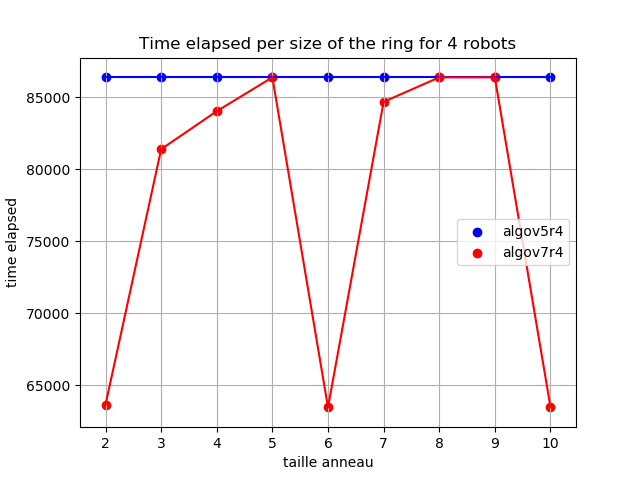
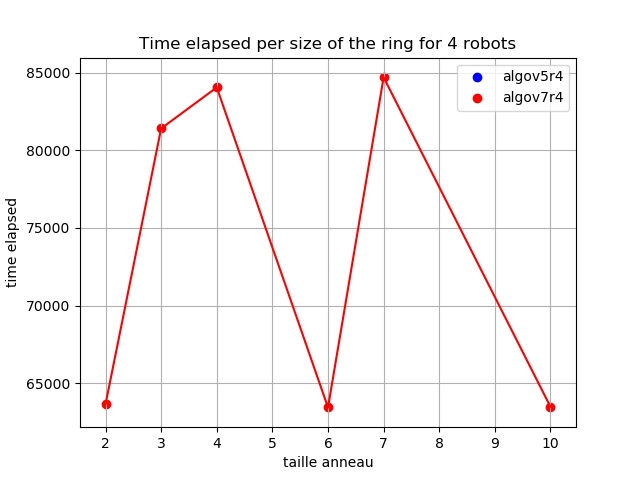
new data

diff --git a/data/data.py b/data/data.py
@@ -4,7 +4,7 @@ from mpl_toolkits.mplot3d import axes3d
 import numpy as np
 import pandas as pd
 
-data = pd.read_csv('./data/data-phiSimple24/data-timev2.csv', sep=';')
+data = pd.read_csv('./data/data-phiR24/data-timev2.csv', sep=';')
 
 algov5 = data.loc[(data['algo'] == 5) & ((data['error'] == 0) | (data['error'] == 3) | (data['error'] == 2))]
 algov7 = data.loc[(data['algo'] == 7) & ((data['error'] == 0) | (data['error'] == 3) | (data['error'] == 2))]
@@ -30,46 +30,46 @@ ax.scatter(algov7r2.sort_values(by = 'taille anneau')['taille anneau'], algov7r2
 ax.set(xlabel='taille anneau', ylabel='time elapsed', title='Time elapsed per size of the ring for 2 robots')
 ax.grid()
 ax.legend()
-fig.savefig("./data/data-phiSimple24/compar_phiSimple24_2.png")
+fig.savefig("./data/data-phiR24/compar_phiR24_2.png")
 plt.show()
-# ################# 3
-# fig, ax = plt.subplots()
-# ax.plot(algov5r3.sort_values(by = 'taille anneau')['taille anneau'], algov5r3.sort_values(by = 'taille anneau')['time elapsed'], color='blue')
-# ax.scatter(algov5r3.sort_values(by = 'taille anneau')['taille anneau'], algov5r3.sort_values(by = 'taille anneau')['time elapsed'], color='blue', label='algov5r3')
-# ax.plot(algov7r3.sort_values(by = 'taille anneau')['taille anneau'], algov7r3.sort_values(by = 'taille anneau')['time elapsed'], color='red')
-# ax.scatter(algov7r3.sort_values(by = 'taille anneau')['taille anneau'], algov7r3.sort_values(by = 'taille anneau')['time elapsed'], color='red', label='algov7r3')
+################# 3
+fig, ax = plt.subplots()
+ax.plot(algov5r3.sort_values(by = 'taille anneau')['taille anneau'], algov5r3.sort_values(by = 'taille anneau')['time elapsed'], color='blue')
+ax.scatter(algov5r3.sort_values(by = 'taille anneau')['taille anneau'], algov5r3.sort_values(by = 'taille anneau')['time elapsed'], color='blue', label='algov5r3')
+ax.plot(algov7r3.sort_values(by = 'taille anneau')['taille anneau'], algov7r3.sort_values(by = 'taille anneau')['time elapsed'], color='red')
+ax.scatter(algov7r3.sort_values(by = 'taille anneau')['taille anneau'], algov7r3.sort_values(by = 'taille anneau')['time elapsed'], color='red', label='algov7r3')
 
-# ax.set(xlabel='taille anneau', ylabel='time elapsed', title='Time elapsed per size of the ring for 3 robots')
-# ax.grid()
-# ax.legend()
-# fig.savefig("./data/data-phiSimple24/compar_phiSimple24_3.png")
-# plt.show()
-# ################# 4
-# fig, ax = plt.subplots()
-# ax.plot(algov5r4.sort_values(by = 'taille anneau')['taille anneau'], algov5r4.sort_values(by = 'taille anneau')['time elapsed'], color='blue')
-# ax.scatter(algov5r4.sort_values(by = 'taille anneau')['taille anneau'], algov5r4.sort_values(by = 'taille anneau')['time elapsed'], color='blue', label='algov5r4')
-# ax.plot(algov7r4.sort_values(by = 'taille anneau')['taille anneau'], algov7r4.sort_values(by = 'taille anneau')['time elapsed'], color='red')
-# ax.scatter(algov7r4.sort_values(by = 'taille anneau')['taille anneau'], algov7r4.sort_values(by = 'taille anneau')['time elapsed'], color='red', label='algov7r4')
+ax.set(xlabel='taille anneau', ylabel='time elapsed', title='Time elapsed per size of the ring for 3 robots')
+ax.grid()
+ax.legend()
+fig.savefig("./data/data-phiR24/compar_phiR24_3.png")
+plt.show()
+################# 4
+fig, ax = plt.subplots()
+ax.plot(algov5r4.sort_values(by = 'taille anneau')['taille anneau'], algov5r4.sort_values(by = 'taille anneau')['time elapsed'], color='blue')
+ax.scatter(algov5r4.sort_values(by = 'taille anneau')['taille anneau'], algov5r4.sort_values(by = 'taille anneau')['time elapsed'], color='blue', label='algov5r4')
+ax.plot(algov7r4.sort_values(by = 'taille anneau')['taille anneau'], algov7r4.sort_values(by = 'taille anneau')['time elapsed'], color='red')
+ax.scatter(algov7r4.sort_values(by = 'taille anneau')['taille anneau'], algov7r4.sort_values(by = 'taille anneau')['time elapsed'], color='red', label='algov7r4')
 
-# ax.set(xlabel='taille anneau', ylabel='time elapsed', title='Time elapsed per size of the ring for 4 robots')
-# ax.grid()
-# ax.legend()
-# fig.savefig("./data/data-phiSimple24/compar_phiSimple24_4.png")
-# plt.show()
-# ################# 5
-# fig, ax = plt.subplots()
-# ax.plot(algov5r5.sort_values(by = 'taille anneau')['taille anneau'], algov5r5.sort_values(by = 'taille anneau')['time elapsed'], color='blue')
-# ax.scatter(algov5r5.sort_values(by = 'taille anneau')['taille anneau'], algov5r5.sort_values(by = 'taille anneau')['time elapsed'], color='blue', label='algov5r5')
-# ax.plot(algov7r5.sort_values(by = 'taille anneau')['taille anneau'], algov7r5.sort_values(by = 'taille anneau')['time elapsed'], color='red')
-# ax.scatter(algov7r5.sort_values(by = 'taille anneau')['taille anneau'], algov7r5.sort_values(by = 'taille anneau')['time elapsed'], color='red', label='algov7r5')
+ax.set(xlabel='taille anneau', ylabel='time elapsed', title='Time elapsed per size of the ring for 4 robots')
+ax.grid()
+ax.legend()
+fig.savefig("./data/data-phiR24/compar_phiR24_4.png")
+plt.show()
+################# 5
+fig, ax = plt.subplots()
+ax.plot(algov5r5.sort_values(by = 'taille anneau')['taille anneau'], algov5r5.sort_values(by = 'taille anneau')['time elapsed'], color='blue')
+ax.scatter(algov5r5.sort_values(by = 'taille anneau')['taille anneau'], algov5r5.sort_values(by = 'taille anneau')['time elapsed'], color='blue', label='algov5r5')
+ax.plot(algov7r5.sort_values(by = 'taille anneau')['taille anneau'], algov7r5.sort_values(by = 'taille anneau')['time elapsed'], color='red')
+ax.scatter(algov7r5.sort_values(by = 'taille anneau')['taille anneau'], algov7r5.sort_values(by = 'taille anneau')['time elapsed'], color='red', label='algov7r5')
 
-# ax.set(xlabel='taille anneau', ylabel='time elapsed', title='Time elapsed per size of the ring for 5 robots')
-# ax.grid()
-# ax.legend()
-# fig.savefig("./data/data-phiSimple24/compar_phiSimple24_5.png")
-# plt.show()
+ax.set(xlabel='taille anneau', ylabel='time elapsed', title='Time elapsed per size of the ring for 5 robots')
+ax.grid()
+ax.legend()
+fig.savefig("./data/data-phiR24/compar_phiR24_5.png")
+plt.show()
 
-######################## 3D
+######################################################################################################################## 3D
 
 # algov5err = data.loc[(data['algo'] == 5) & ((data['error'] == 0) | (data['error'] == 3))]
 # algov7err = data.loc[(data['algo'] == 7) & ((data['error'] == 0) | (data['error'] == 3))]
